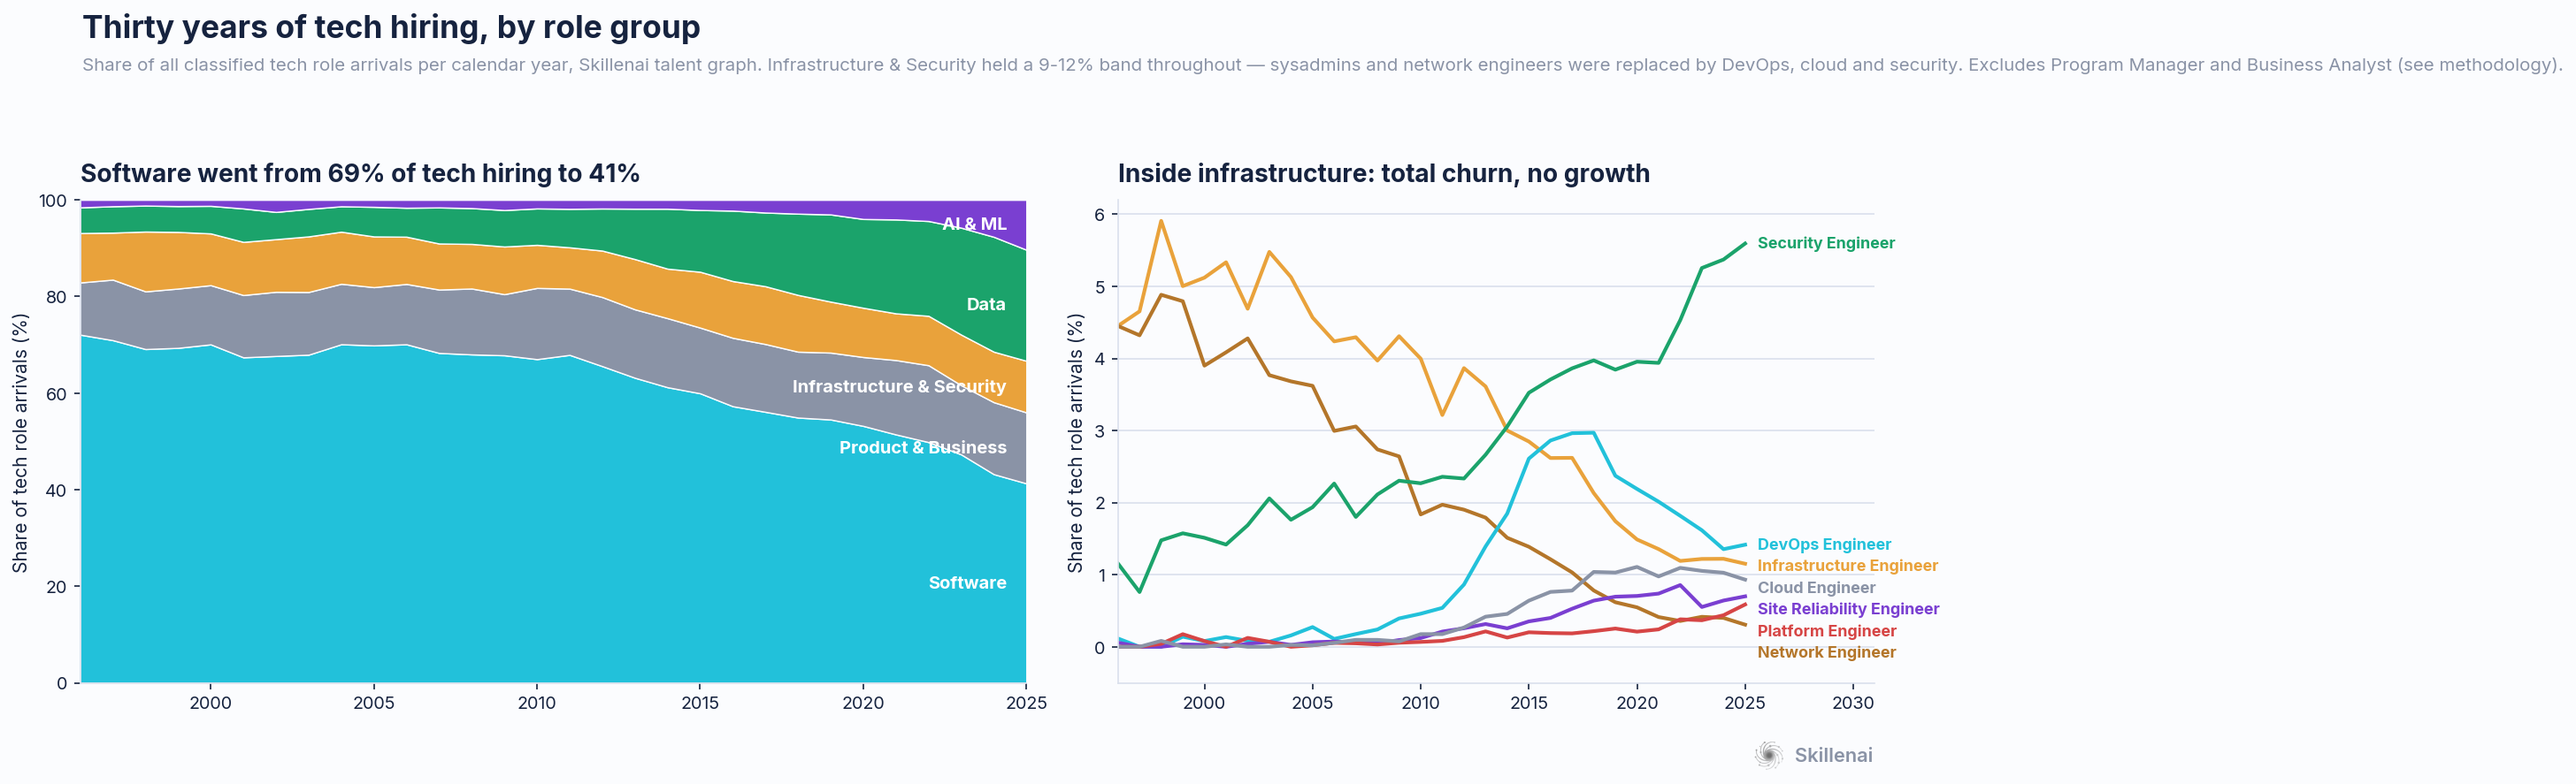
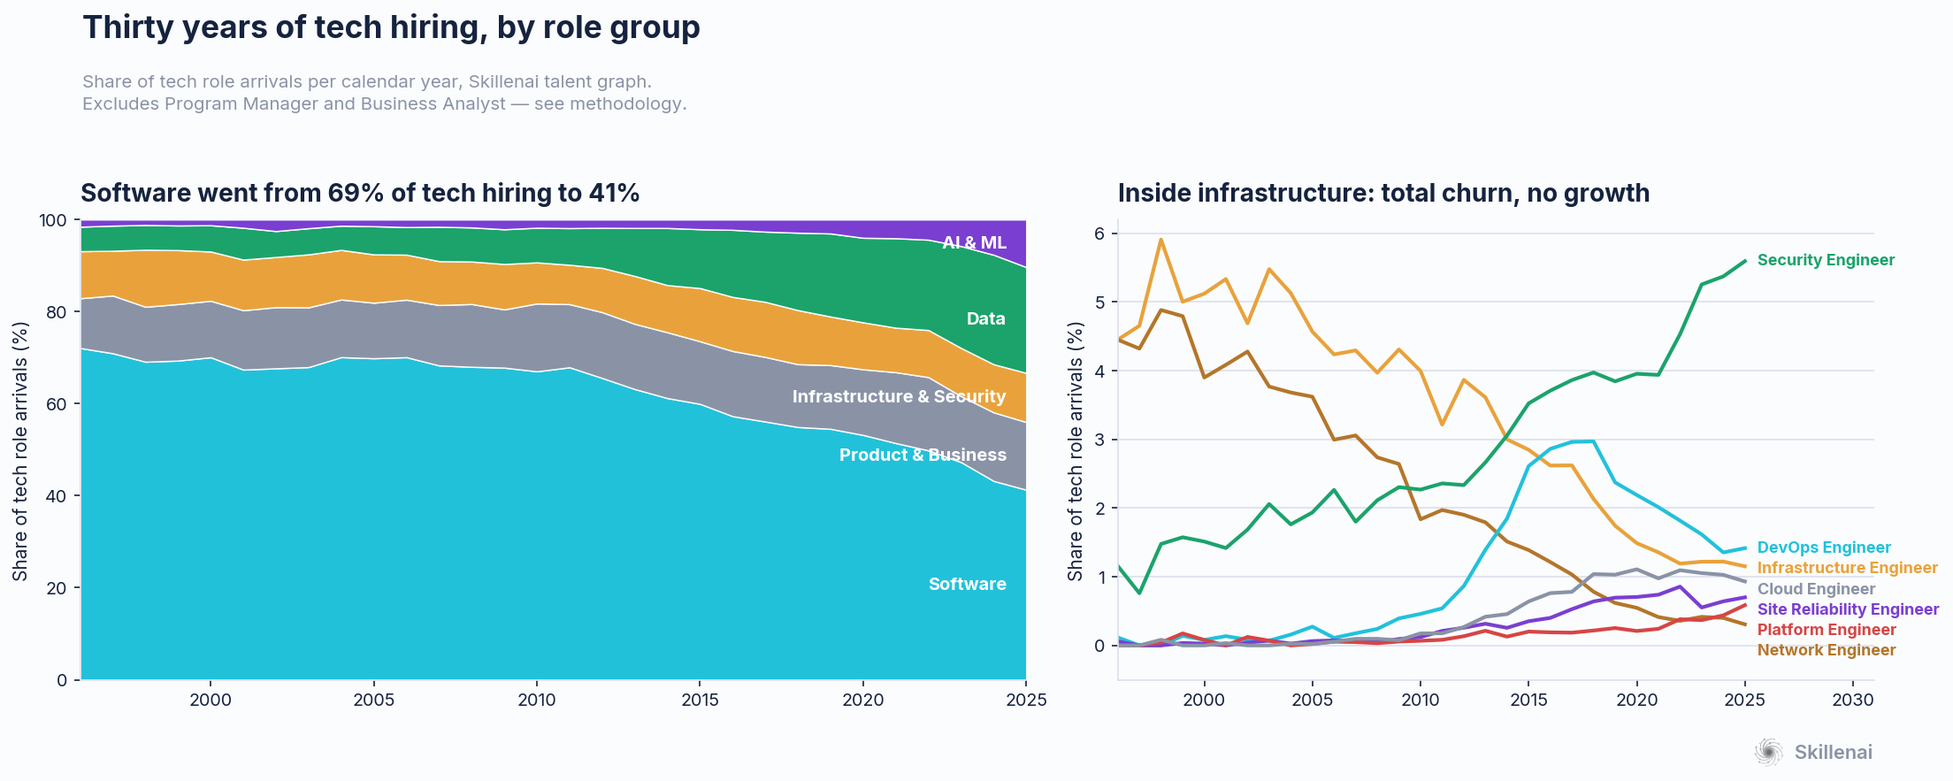
Fix hero figure: long single-line subtitle was squeezing both panels
bbox_inches=tight expands the canvas to fit the widest text object, so a
~280-char single-line subtitle silently stretched the figure to a 3.2:1
aspect and shrank the panels. Shortened and wrapped it to two lines;
aspect is now 2.5:1 with materially larger panels.

diff --git a/who-feeds-ai-roles/groups_fig.py b/who-feeds-ai-roles/groups_fig.py
@@ -64,11 +64,13 @@ ax2.grid(axis="y",color=GRID,lw=.8); ax2.set_axisbelow(True)
 for a in (ax,ax2):
     a.tick_params(labelsize=9.5)
     for s in ("top","right"): a.spines[s].set_visible(False)
-fig.suptitle("Thirty years of tech hiring, by role group",fontsize=17,fontweight="bold",x=.045,ha="left",y=.99)
-fig.text(.045,.915,"Share of all classified tech role arrivals per calendar year, Skillenai talent graph. Infrastructure & Security held a 9-12% band throughout \u2014 "
-        "sysadmins and network engineers were replaced by DevOps, cloud and security. Excludes Program Manager and Business Analyst (see methodology).",
-        color=INK2,fontsize=9.8)
-fig.tight_layout(rect=[0,.055,1,.885])
+fig.suptitle("Thirty years of tech hiring, by role group",fontsize=17,fontweight="bold",x=.045,ha="left",y=.985)
+# Keep the subtitle SHORT and wrapped: bbox_inches="tight" expands the canvas to
+# fit the widest text object, so one long line silently squeezes both panels.
+fig.text(.045,.905,"Share of tech role arrivals per calendar year, Skillenai talent graph.\n"
+        "Excludes Program Manager and Business Analyst \u2014 see methodology.",
+        color=INK2,fontsize=9.8,linespacing=1.5,va="top")
+fig.tight_layout(rect=[0,.055,1,.855])
 stamp(fig,x=.885,y=.004,h=.038)
 save(fig,"08_group_shares.png")
 print("group shares 1998 vs 2025:")
